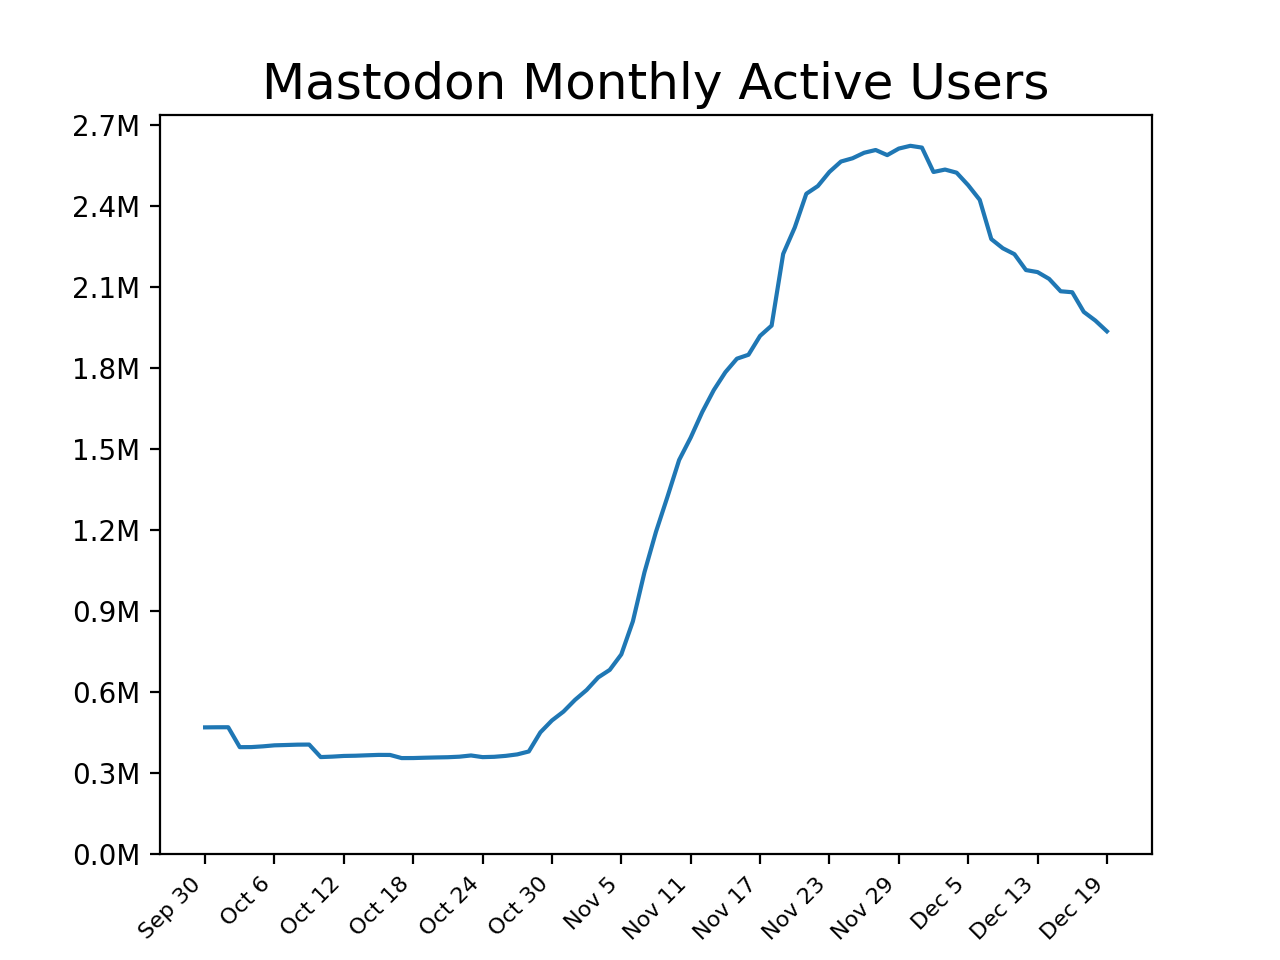
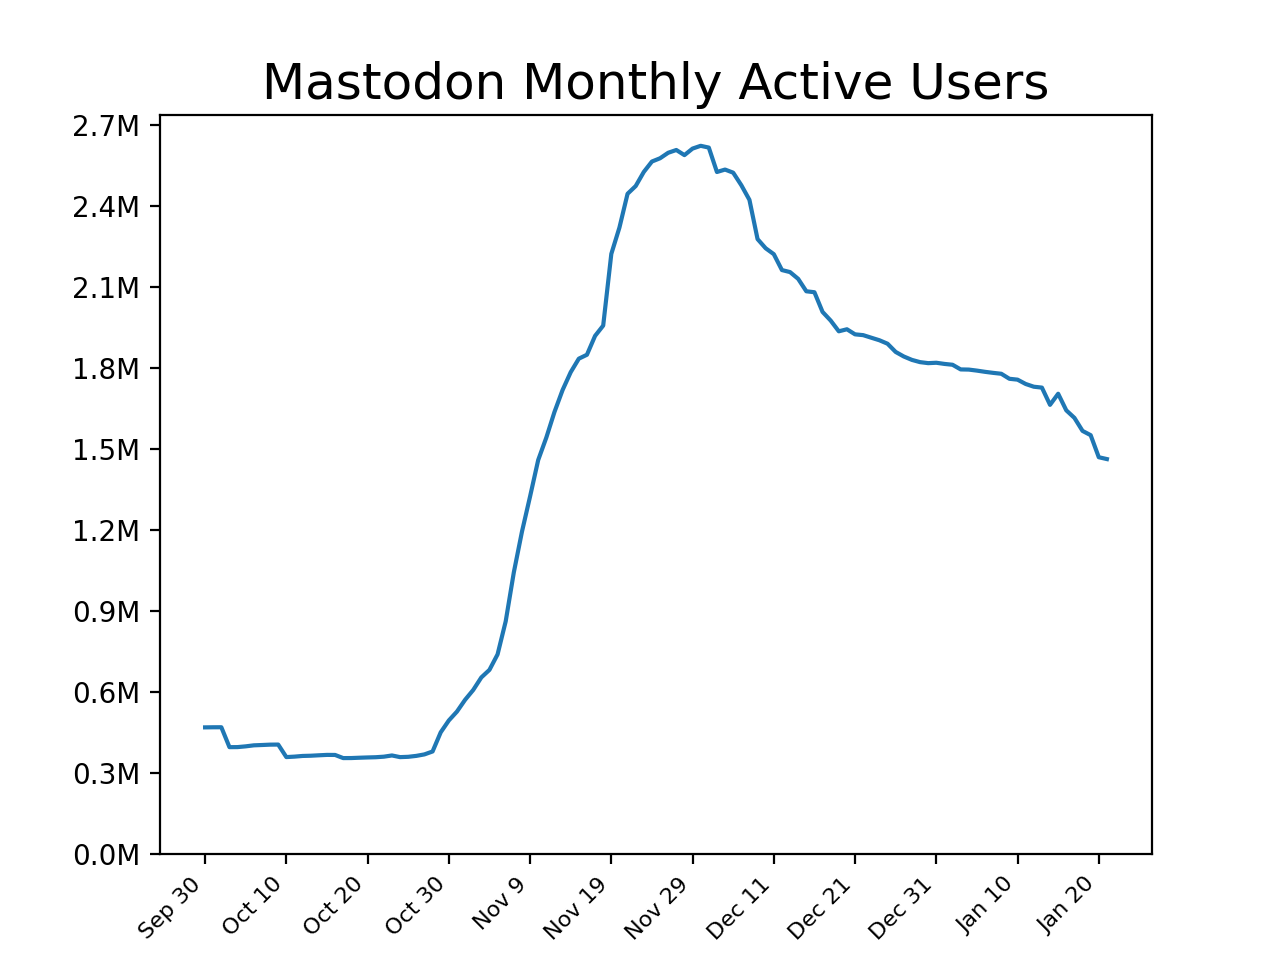
Update data and graph

diff --git a/stats.py b/stats.py
@@ -31,8 +31,8 @@ def main():
     for day in data:
         dates.append(day["period"][0:10])
         server_counts.append(int(day["server_count"]))
-        user_counts.append(int(day["user_count"]))
-        active_user_counts.append(int(day["active_user_count"]))
+        user_counts.append(int(float(day["user_count"])))
+        active_user_counts.append(int(float(day["active_user_count"])))
 
     # Ignore the last day
     dates = dates[:-1]
